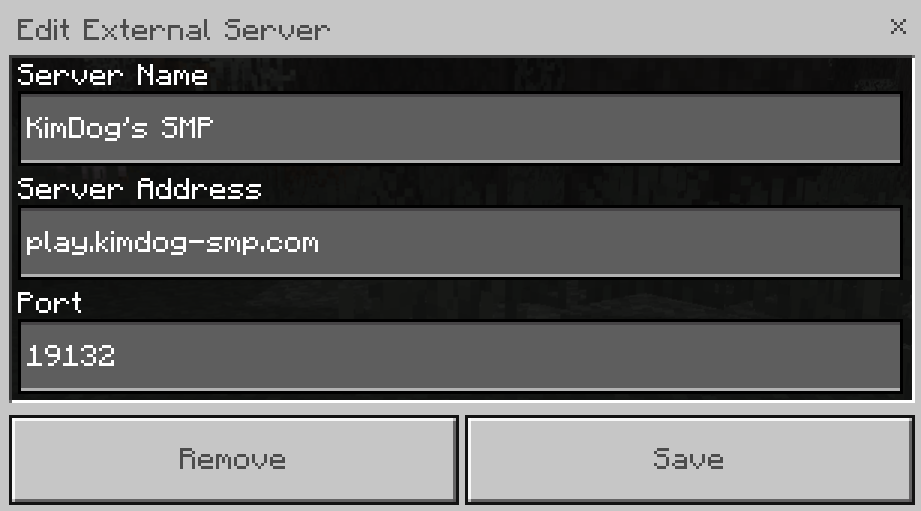
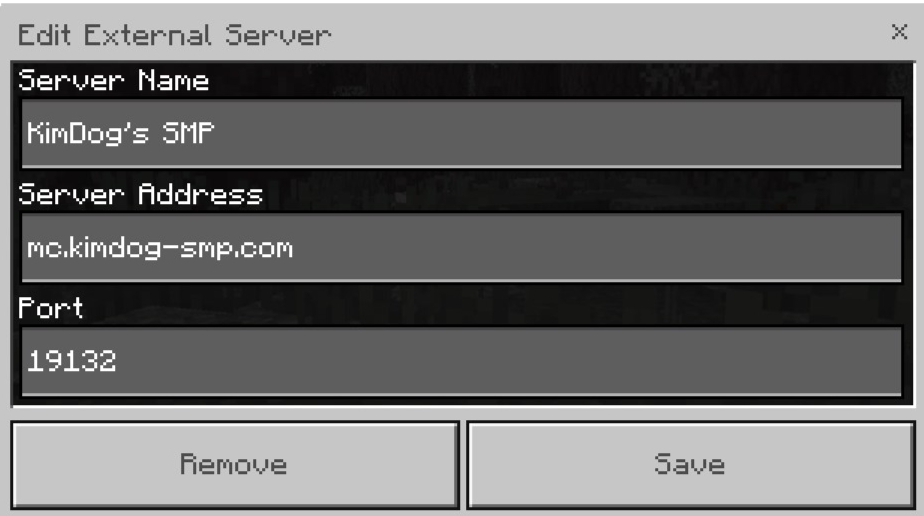
Upate

Changed region(s): [[0.0, 0.0, 1.0, 0.998], [0.1824, 0.8806, 0.304, 0.9393], [0.6992, 0.8806, 0.7904, 0.9393]]

diff --git a/app/servers/page.tsx b/app/servers/page.tsx
@@ -22,7 +22,7 @@ const ServersPage: React.FC = () => {
               <p className="text-lg mb-2">2. Click on "Multiplayer".</p>
               <p className="text-lg mb-2">3. Click on "Add Server".</p>
               <p className="text-lg mb-2">4. Enter the server name: KimDog's SMP</p>
-              <p className="text-lg mb-2">5. Enter the server address: play.kimdog-smp.com</p>
+              <p className="text-lg mb-2">5. Enter the server address: mc.kimdog-smp.com</p>
               <p className="text-lg mb-2">6. Click "Done" and then "Join Server".</p>
             </div>
           </div>
@@ -37,7 +37,7 @@ const ServersPage: React.FC = () => {
               <p className="text-lg mb-2">3. Go to the "Servers" tab.</p>
               <p className="text-lg mb-2">4. Scroll down and click on "Add Server".</p>
               <p className="text-lg mb-2">5. Enter the server name: KimDog's SMP</p>
-              <p className="text-lg mb-2">6. Enter the server address: play.kimdog-smp.com</p>
+              <p className="text-lg mb-2">6. Enter the server address: mc.kimdog-smp.com</p>
               <p className="text-lg mb-2">7. Enter the port: 19132</p>
               <p className="text-lg mb-2">8. Click "Save" and then "Join Server".</p>
             </div>

diff --git a/app/page.tsx b/app/page.tsx
@@ -113,7 +113,7 @@ export default function Home() {
             </div>
             <div className="bg-gray-800 p-6 rounded-lg shadow-lg">
               <h3 className="text-2xl mb-2">Bedrock Edition</h3>
-              <p className="text-lg">1.21.4</p>
+              <p className="text-lg">1.21.51</p>
             </div>
           </div>
         </section>
